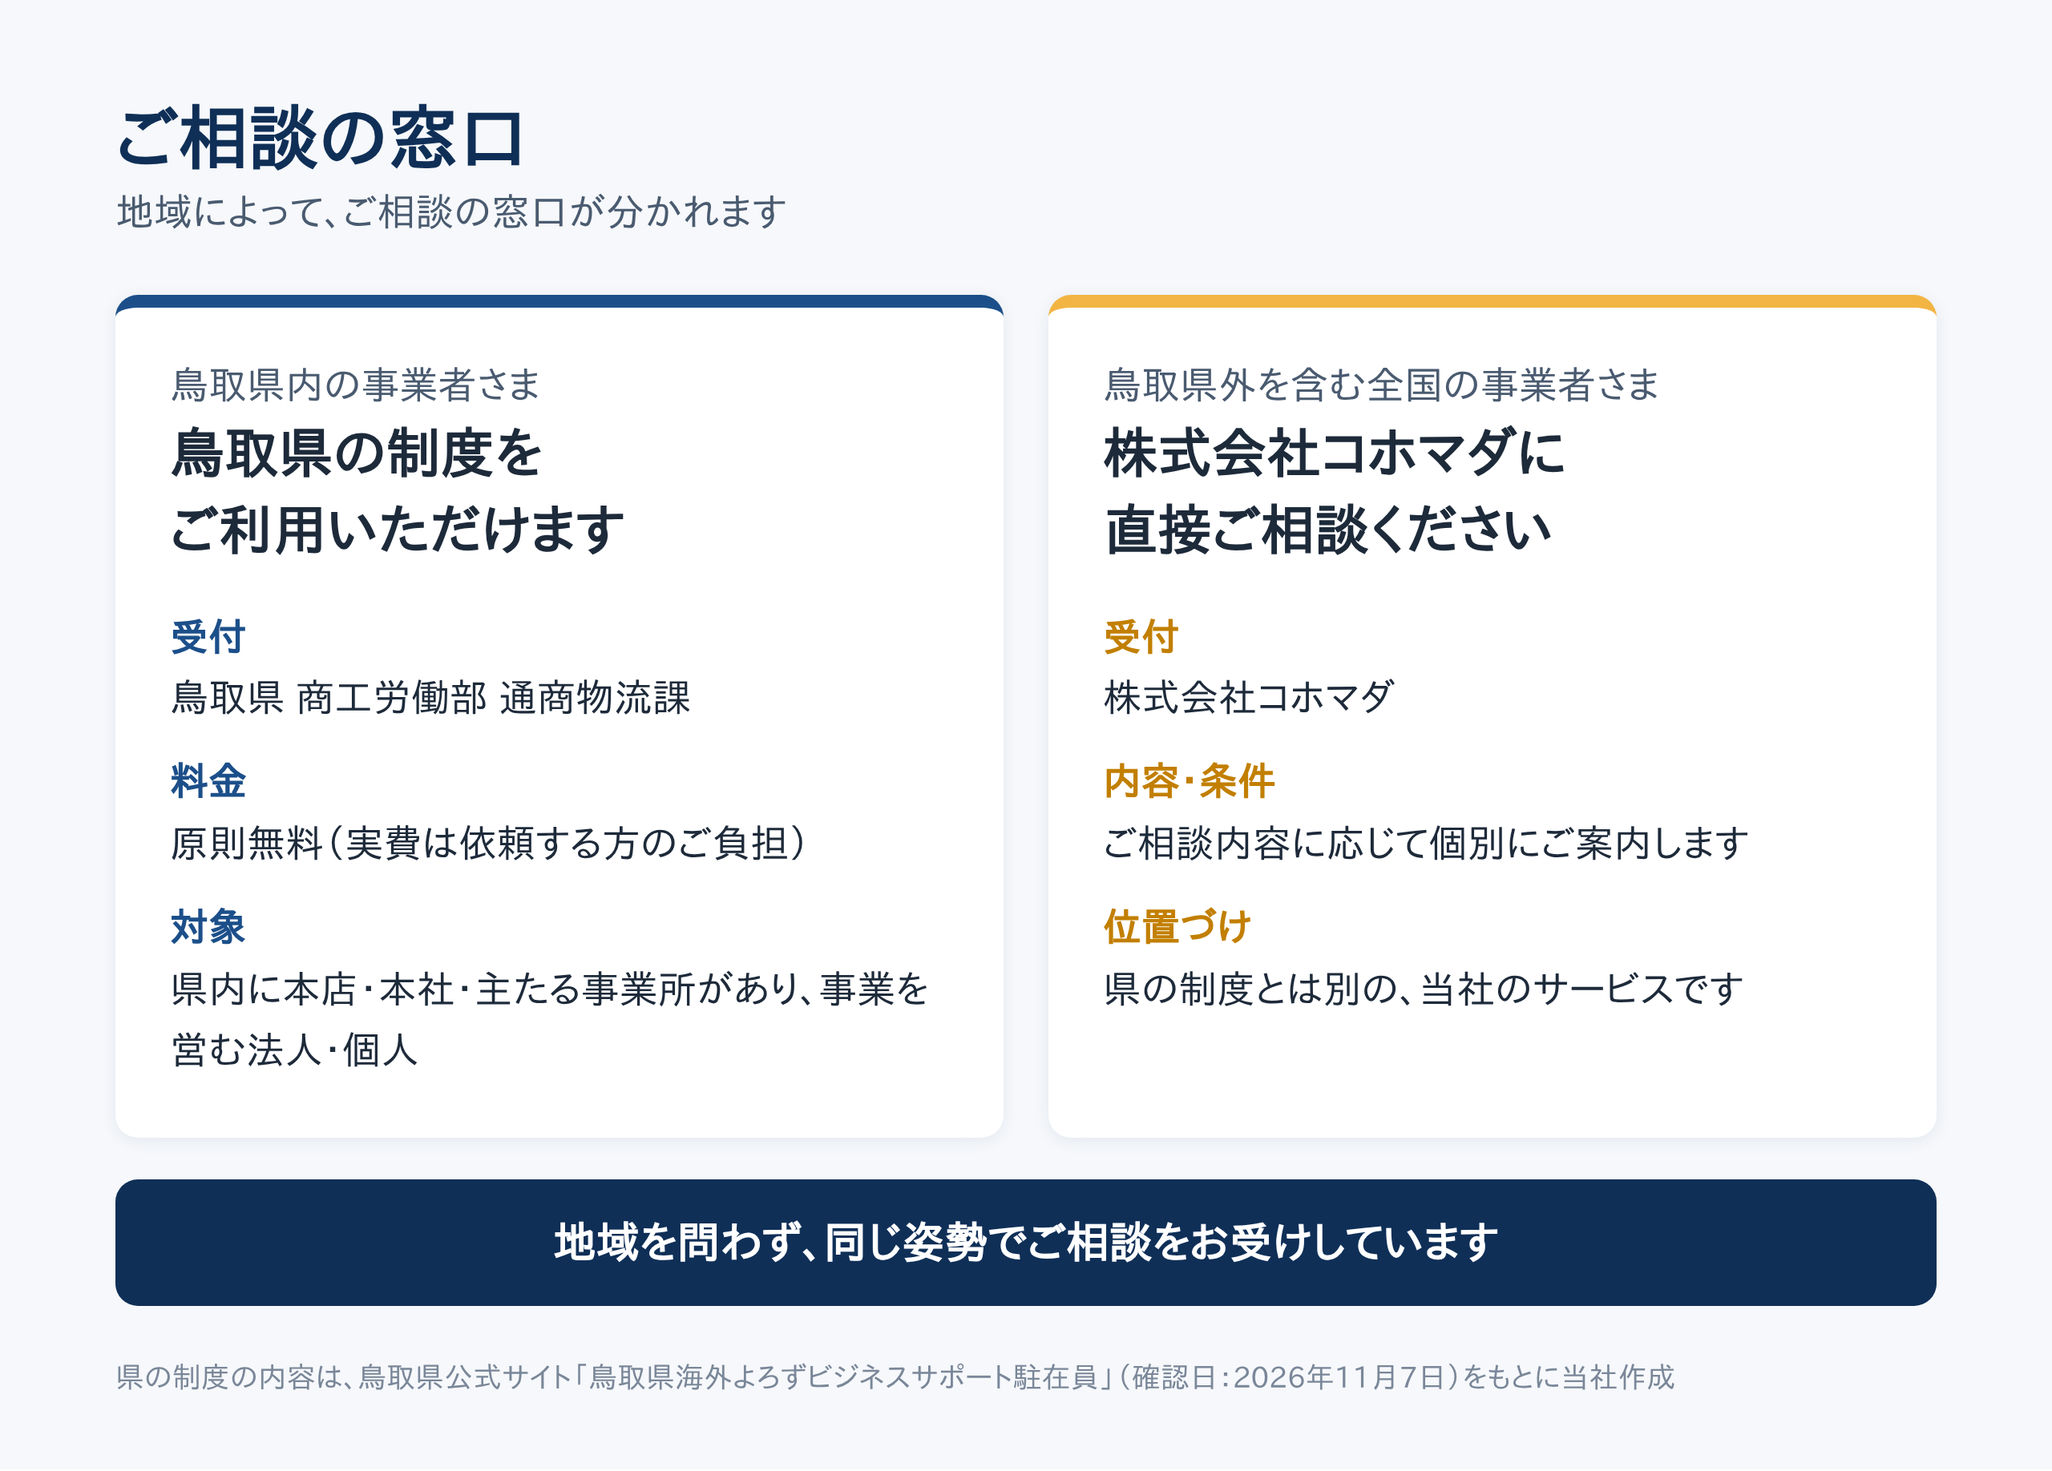
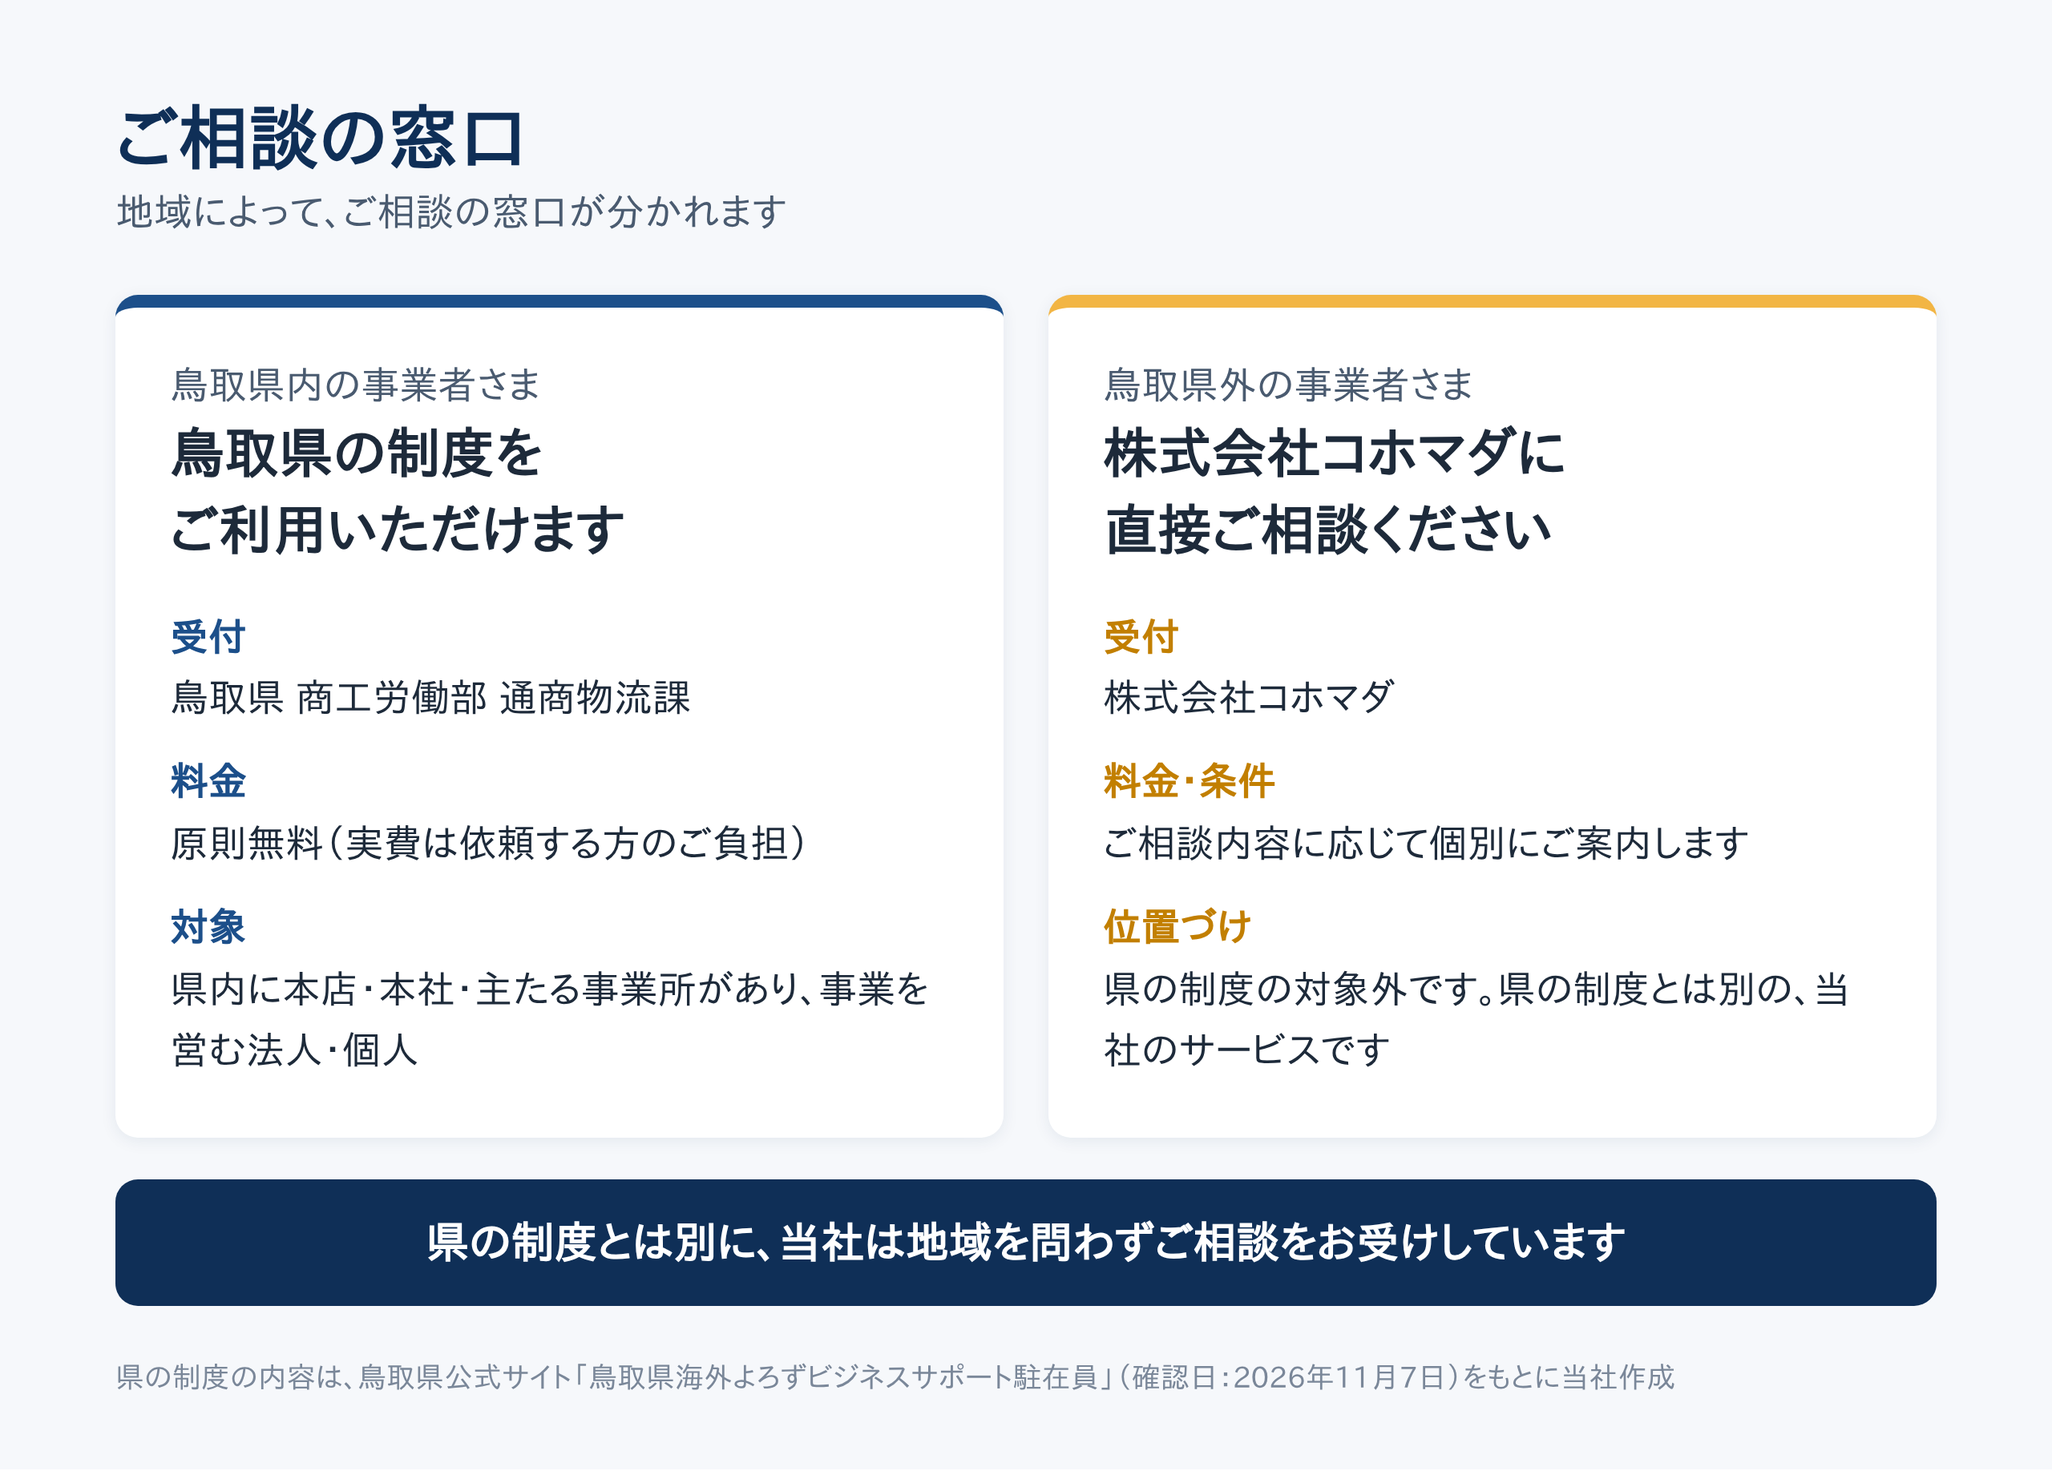
note記事（鳥取県駐在員）v10：アオイ監査S2〜S6・R11〜R12を反映、画像01・06を更新
Claude-Session: https://claude.ai/code/session_019zHJ4LWbNGh2h3Keb25My9

diff --git a/logs/kohomada_2026-11-07_note画像_鳥取県駐在員/src.html b/logs/kohomada_2026-11-07_note画像_鳥取県駐在員/src.html
@@ -63,8 +63,8 @@ td .m{color:#4a5b70;font-size:22px}
     <span class="tag">ご紹介</span>
     <h1><span class="sm">鳥取県「海外よろずビジネスサポート駐在員」</span>当社代表・髙松直弥が<br>駐在員を務めています</h1>
   </div>
-  <div class="lead">海外展開を考える鳥取県内の事業者さまへ</div>
-  <div class="foot"><span>海外展開の初期段階を、原則無料でサポートする県の制度</span><b>株式会社コホマダ</b></div>
+  <div class="lead">鳥取県の制度のもとで、県内企業の海外展開をサポートしています</div>
+  <div class="foot"><span></span><b>株式会社コホマダ</b></div>
 </div>
 
 <div id="i2" class="img">
@@ -121,10 +121,10 @@ td .m{color:#4a5b70;font-size:22px}
   <div class="two">
     <div class="col"><div class="who2">鳥取県内の事業者さま</div><div class="t">鳥取県の制度を<br>ご利用いただけます</div>
       <dl><dt>受付</dt><dd>鳥取県 商工労働部 通商物流課</dd><dt>料金</dt><dd>原則無料（実費は依頼する方のご負担）</dd><dt>対象</dt><dd>県内に本店・本社・主たる事業所があり、事業を営む法人・個人</dd></dl></div>
-    <div class="col b"><div class="who2">鳥取県外を含む全国の事業者さま</div><div class="t">株式会社コホマダに<br>直接ご相談ください</div>
-      <dl><dt>受付</dt><dd>株式会社コホマダ</dd><dt>内容・条件</dt><dd>ご相談内容に応じて個別にご案内します</dd><dt>位置づけ</dt><dd>県の制度とは別の、当社のサービスです</dd></dl></div>
+    <div class="col b"><div class="who2">鳥取県外の事業者さま</div><div class="t">株式会社コホマダに<br>直接ご相談ください</div>
+      <dl><dt>受付</dt><dd>株式会社コホマダ</dd><dt>料金・条件</dt><dd>ご相談内容に応じて個別にご案内します</dd><dt>位置づけ</dt><dd>県の制度の対象外です。県の制度とは別の、当社のサービスです</dd></dl></div>
   </div>
-  <div class="same">地域を問わず、同じ姿勢でご相談をお受けしています</div>
+  <div class="same">県の制度とは別に、当社は地域を問わずご相談をお受けしています</div>
   <p class="src">県の制度の内容は、鳥取県公式サイト「鳥取県海外よろずビジネスサポート駐在員」（確認日：2026年11月7日）をもとに当社作成</p>
 </div>
 </body></html>

diff --git a/logs/kohomada_2026-11-07_note記事下書き_鳥取県駐在員就任_v10.md b/logs/kohomada_2026-11-07_note記事下書き_鳥取県駐在員就任_v10.md
@@ -1,0 +1,173 @@
+# note記事下書き：鳥取県海外よろずビジネスサポート駐在員 v10
+
+- 対象事業：株式会社コホマダ（note／マガジン：貿易・海外展開／種別：無料）
+- 状態：Draft（v9のアオイ監査：HUMAN REVIEW REQUIRED → 文言の必須修正S2〜S6・推奨R11〜R12を反映したv10。S1は、社長が別メッセージで「12月からです」と明示しているため記録を補強して対応。**県担当課への事前確認と、その回答を踏まえたアオイの再監査が公開の前提**）
+- 基準日：2026-11-07
+- v9の方針（社長提供・2026-11-07）：
+  - 記事の目的：鳥取県の制度のもとで海外展開支援を担っていることを伝え、当社の信頼につなげる
+  - 駐在員への任命は、ご縁があってのこと
+  - 鳥取県だけを特別扱いせず、ほかの都道府県の事業者さまからのご相談も同じように受け付けることが前提
+- v8からの主な変更：記事の軸を「制度の紹介」から「当社の取り組みと信頼」へ変更／全国対応の節を新設／県の制度と当社への直接相談の違いを整理（図解06を追加）／制度の説明は要点に圧縮
+- 参考記事（文体・構成のみ参照）：https://note.com/kohomadha/n/n0973f531a0d1 ／ https://note.com/kohomadha/n/n833dff644f80
+
+> **社長のご承認をお願いします。** 承認が必要な事項は末尾「5. 承認が必要な事項」にまとめています。
+
+---
+
+## 1. タイトル案
+
+1. 当社代表・髙松が、鳥取県「海外よろずビジネスサポート駐在員」を務めています
+2. ご縁をいただき、鳥取県の駐在員に。当社代表・髙松の取り組みのご紹介
+3. 県の制度のもとで、地域企業の海外展開を支える。当社代表・髙松が鳥取県の駐在員を務めています
+
+見出し画像：01_見出し画像.png
+
+---
+
+## 2. 本文（note貼り付け用）
+
+**【本記事について】**
+本記事は、株式会社コホマダの代表・髙松直弥が務めている、鳥取県の「海外よろずビジネスサポート駐在員」としての取り組みをご紹介するものです。制度の内容は、鳥取県公式サイトの掲載内容をもとに整理しました。
+
+* * *
+
+### はじめに
+
+当社代表の髙松直弥は、2025年12月から、鳥取県の「海外よろずビジネスサポート駐在員」を務めています。
+ご縁をいただき、駐在員として任命を受けました。県の公式サイトにも、駐在員の一人として掲載されています（2026年11月7日時点）。
+
+駐在員の役割は、海外展開に取り組む県内企業を、県の制度のもとでサポートすることです。
+当社がこれまで続けてきた「日本の事業者と海外をつなぐ」仕事を、県の制度を通じて地域の事業者さまにも届けられる。当社はこの役割を、責任ある仕事として受け止めています。
+
+* * *
+
+### 駐在員として担っていること
+
+「海外よろずビジネスサポート駐在員」は、鳥取県が県内企業の海外展開を支援するために設けている制度です。県の説明によれば、世界の主要な市場に駐在員を置き、**県内企業の海外展開を現地でサポートする**ことを目的としています。
+
+県のページでは、駐在員の支援内容として次のものが挙げられています。
+
+> ⒈ 現地の市場・商材・現地事情などについての**簡単な情報提供**
+> ⒉ 現地の**商談候補企業・視察先候補企業**の情報提供・リストアップ
+> ⒊ 現地での**視察代行**（駐在している周辺エリアに限ります。交通費を含みます）
+> ⒋ 現地へ行くときの**同行支援**（通訳・交通費は含みません。1日最大8時間まで）
+
+長時間の作業や、専門的な知識が必要なご依頼には対応できない、とされています。海外展開に取り組む**初期段階**の支援を想定した制度です。
+
+【図解：03_できること一覧.png】
+
+* * *
+
+### 当社代表・髙松の担当地域
+
+県のページでは、髙松の対応可能国は次のように掲載されています。
+
+> 東南アジア・欧米・EU・南米・アフリカ 等
+
+また、これまでの取り組みとして、スリランカでの自社製品の販売や、EUへの食品の展開支援、アフリカへのアパレルの展開支援などが紹介されています。
+
+髙松は日本国内を拠点に、海外のネットワークを活かしてご相談に対応しています。
+
+【図解：04_髙松の対応可能国.png】
+
+* * *
+
+### 鳥取県外の事業者さまからのご相談について
+
+駐在員としての支援は、県の制度に基づき、鳥取県内の事業者さまを対象に行っています。
+これとは別に、当社としては、これまでどおり地域を問わず海外展開のご相談をお受けしています。鳥取県外の事業者さまからのご相談も、変わらずお待ちしています。
+
+ご相談の窓口は、次のように分かれます。
+
+> ・**鳥取県内の事業者さま**：県の制度（原則無料）をご利用いただけます。受付は鳥取県の窓口です
+> ・**鳥取県外の事業者さま**：当社に直接ご相談ください（県の制度の対象外です。当社のサービスとして、料金・条件を個別にご案内します）
+
+なお、本記事は、鳥取県による当社サービスの推奨・保証を示すものではありません。
+
+【図解：06_ご相談窓口の違い.png】
+
+* * *
+
+### 鳥取県内の事業者さまへ：県の制度の使い方
+
+県の制度をご利用の場合は、まず**鳥取県の窓口に、メールか電話でお問い合わせください**。
+
+> **鳥取県 商工労働部 通商物流課**
+> 電話：0857-26-7660
+> メール：tsushou-butsuryu@pref.tottori.lg.jp
+
+料金は**原則無料**です（入場料・使用料・送料などの実費は、依頼する方のご負担です）。
+髙松が視察代行・同行支援など具体的にどこまで対応できるかは、ご依頼内容に応じて県の窓口を通じてご確認ください。
+
+【図解：05_相談の進め方.png】
+
+* * *
+
+### さいごに
+
+海外展開は、最初の一歩がいちばん難しいものです。
+
+駐在員としての役割も、当社のふだんの仕事も、目指すところは同じです。
+日本の事業者さまの商品や技術が、海外のお客さまに届くように。地域を問わず、その最初の一歩をお手伝いしてまいります。
+
+* * *
+
+### コホマダについて：海外と日本の事業者をつなぐ
+
+株式会社コホマダは、海外企業の日本進出と、日本企業の海外展開を支援しています（[公式サイト](https://kohomadha.com/)）。
+海外展開に関するご相談は、地域を問わずお受けしています。鳥取県外の事業者さまからのご相談は、県の制度とは別の当社サービスとしてお受けします。「まだ情報収集の段階」というご相談も歓迎です。
+
+* * *
+
+### 本記事について（注記）
+
+**【制度の内容について】**
+本記事の制度の内容は、鳥取県公式サイトの掲載内容を当社が要約したものです。最新の条件・対象国・手続きは、必ず鳥取県の窓口でご確認ください。
+
+**【表示について】**
+本記事は鳥取県が作成・監修したものではなく、鳥取県による当社の推奨・保証を示すものでもありません。県外の事業者さまへの当社のサービスは、県の制度とは別のものです。
+
+* * *
+
+### 出典・基準日
+
+* 鳥取県公式サイト「鳥取県海外よろずビジネスサポート駐在員」（鳥取県 商工労働部 通商物流課）
+  https://www.pref.tottori.lg.jp/311954.htm
+  （確認日：2026年11月7日。ページに掲載日・更新日の記載はありません）
+
+#鳥取県 #海外展開 #中小企業支援 #海外ビジネス #貿易 #コホマダ #株式会社コホマダ
+
+---
+
+## 3. 事実と出典の対応表
+
+| 本文の記載 | 根拠 |
+|---|---|
+| 2025年12月から駐在員を務めている | [ユーザー提供情報] 社長が「12月からです」と明示（2026-11-07。最初の「去年の年末ごろ」を、社長自身が別メッセージで12月と確定）。県ページに日付の記載なし |
+| ご縁をいただき任命を受けた | [ユーザー提供情報] 社長（2026-11-07） |
+| 県公式サイトに掲載（2026年11月7日時点） | 県ページNo.2「株式会社コホマダ　髙松　直弥　代表」 |
+| 制度の目的・支援内容4項目・対応できない依頼・初期段階 | 県ページ本文 |
+| 対応可能国・実績・国内拠点 | 県ページNo.2 |
+| 県の制度の対象（県内に本店等があり事業を営む法人・個人）・原則無料・実費負担 | 県ページ本文 |
+| 受付は県・連絡先 | 県ページ本文 |
+| 県外の相談も当社として受ける／県外は県の制度の対象外で、当社サービスとして料金・条件を個別案内 | [ユーザー提供情報] 社長の方針（2026-11-07）。料金・条件は記載せず |
+| 「日本の事業者と海外をつなぐ」・コホマダの事業説明 | 当社の既公開note記事の会社紹介文と同じ趣旨 |
+| 「責任ある仕事として受け止めています」等 | 事実ではなく当社の意思表明 |
+
+## 4. [要ヒアリング] 残りリスト
+
+- 県外の事業者さまからの相談の受付方法（今は公式サイトのリンクのみ。Heura記事のようにメールアドレスを載せるか）
+- 県外向けサービスの料金・条件（記事には書いていません。「料金・条件を個別にご案内」としています）
+- 鳥取県内の事業者さまが当社に直接相談した場合の扱い（県の制度経由か、当社サービスか）。決まるまで記事には書かない
+- 任期が今も続いているか（記事には書かない方針。公開前の事実確認として）
+
+## 5. 承認が必要な事項（社長のご承認をお願いします）
+
+1. note公開の可否（公開操作は社長ご自身で）
+2. 本文・画像・タイトルについての髙松さん本人の了承（特に「ご縁をいただき、任命を受けました」「責任ある仕事として受け止めています」の書き方）
+3. **【必須】公開前に県担当課（通商物流課）へ事前確認**：①駐在員であることを当社の広報（note）に記載してよいか ②県外向けの当社サービス（有償）の案内と同じ記事に並べてよいか。駐在員の広報・兼業に関する定めが、未確認の実施要領・チラシPDFにある可能性があるため
+4. 景品表示法（優良誤認）の論点：県の無料制度と当社の有償サービスが同じ記事に並ぶため、必要に応じてリョウ（必要なら弁護士）に確認するか
+
+---
+
+本下書きは自動生成による候補です。実際の投稿・公開前に必ずaoi-quality-auditorの監査を経てください（external-publication-policy.md）。実際の投稿・公開は鈴木さん自身が行ってください。本エージェントは投稿・公開操作を一切行っていません。
